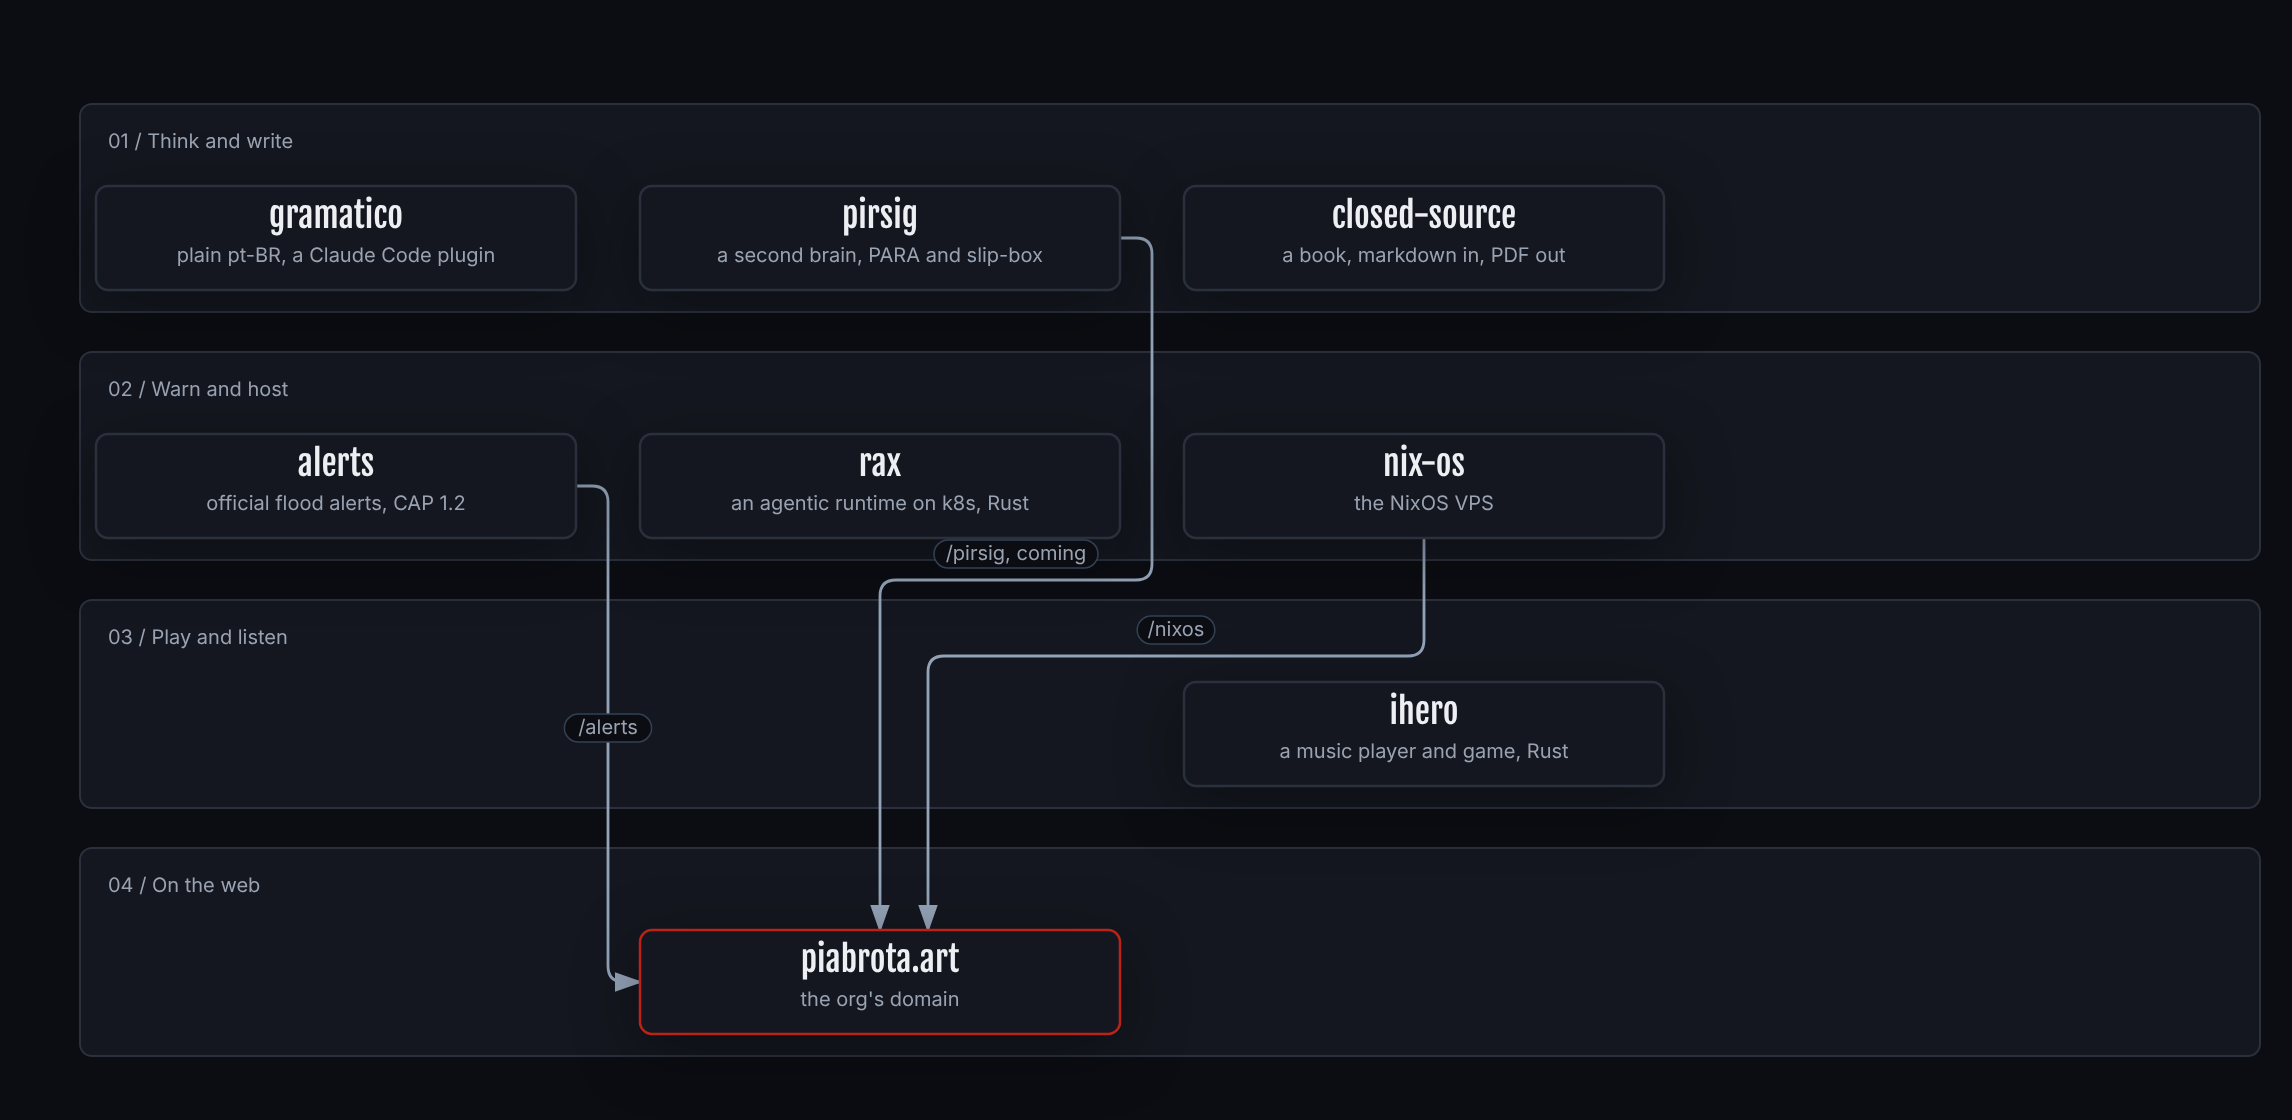
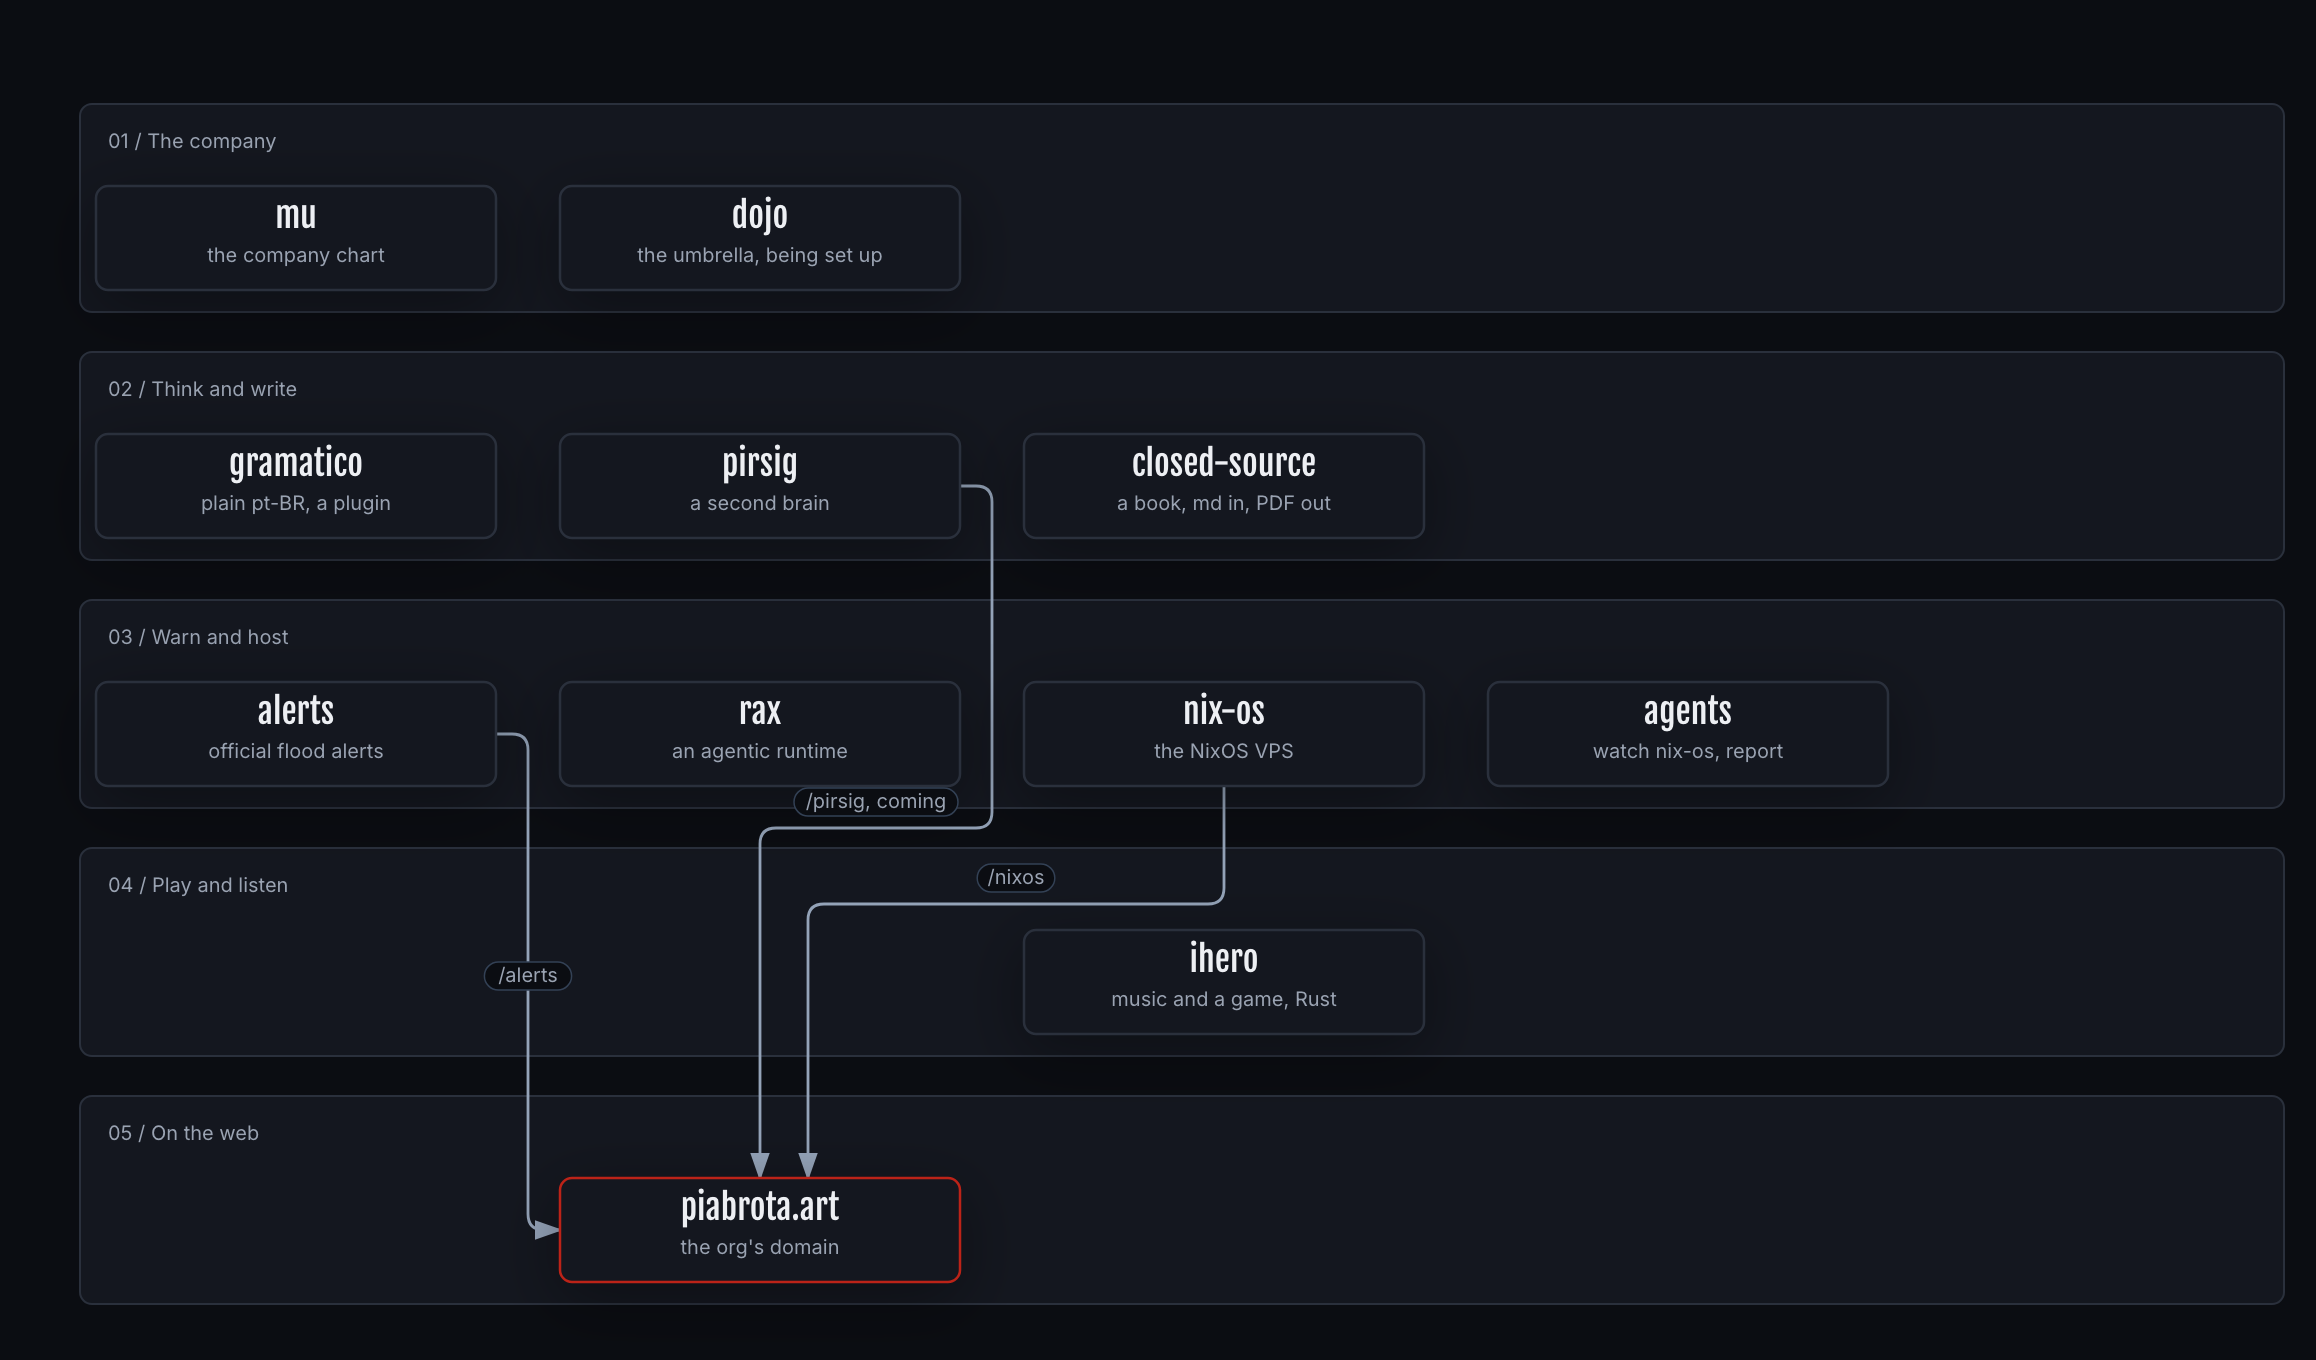
Profile: add mu, dojo and agents, link ihero, redraw the fabric
The org has ten open projects now. ihero has a repository, and the fabric has a lane for the company.

diff --git a/profile/README.md b/profile/README.md
@@ -32,20 +32,23 @@
 | <img alt="A Fibonacci wave and a bell, in one line" src="https://raw.githubusercontent.com/piabrota/alerts/10d996d47c4a8c6bc4076f826bc274da3f8a5561/docs/drawings/wave.svg" width="64"/> | [**alerts**](https://github.com/piabrota/alerts) | A generic alert platform. It collects alerts from official sources only, and delivers them to Discord and an Atom feed with CAP 1.2. The first hazard is floods in the south of Brazil. | none yet (piabrota.art/alerts, coming) | MPL-2.0 |
 | <img alt="代理, dairi, an agent, brushed in sixteen strokes among stars, inside an orbit" src="https://raw.githubusercontent.com/piabrota/rax/a1c99e147db88902db52e92aa86fe47d06e6e8c7/docs/drawings/cosmos.svg" width="64"/> | [**rax**](https://github.com/piabrota/rax) | Rustic Agentic Runtime: a pure-Rust port of AX, the declarative orchestrator for agentic tasks on Agent Substrate. It keeps AX's API, so a manifest written for AX works here. | none | MPL-2.0, parts from AX Apache-2.0 |
 | <img alt="An open letter c with a dot, on a dark square" src="https://raw.githubusercontent.com/h0ffmann/closed-source/6b3aae557f69ab89ec747364311978928dd0ca71/site/static/icons/favicon.svg" width="64"/> | [**closed-source**](https://github.com/h0ffmann/closed-source) | *The god that failed*: a book on why closed source failed as a protection, for science first. Markdown in, PDF out, every reference checked, every release citable. | [h0ffmann.github.io/closed-source](https://h0ffmann.github.io/closed-source/) | text CC BY 4.0, code AGPL-3.0 |
-| 🎶 | **ihero** | A FOSS music player and game, in Rust. Coming. | none yet | MPL-2.0 |
+| 🎶 | [**ihero**](https://github.com/piabrota/ihero) | A FOSS music player and game, in Rust. Coming: the repository holds only its licence. | none yet | MPL-2.0 |
 | <img alt="无, mu, brushed in four strokes from Desmos equations" src="https://raw.githubusercontent.com/piabrota/nix-os/191a284035bef85ea828ff75cc729b4f045b10f1/docs/drawings/mu.svg" width="64"/> | [**nix-os**](https://github.com/piabrota/nix-os) | The NixOS configuration of the small VPS that serves piabrota.art/nixos. Every change is judged by what it adds to the closure and to memory. | [piabrota.art/nixos](https://piabrota.art/nixos) | MPL-2.0 |
+| 🤖 | [**agents**](https://github.com/piabrota/agents) | Small agents that watch nix-os and its VPS, and report on GitHub as piabrota-ops. They open pull requests and never merge. | none | MPL-2.0 |
+| <img alt="む, mu, brushed in its three strokes, in pure Nix" src="https://raw.githubusercontent.com/piabrota/mu/960984b928062b5cf043001e072322df51f106fa/docs/drawings/mu.svg" width="64"/> | [**mu**](https://github.com/piabrota/mu) | The company chart: the dogma, the standards, the journal and the index of the org's repositories. | none | CC BY 4.0, AGPL-3.0, MPL-2.0 |
+| 道場 | [**dojo**](https://github.com/piabrota/dojo) | The umbrella of the piabrota projects. Being set up. | none yet | MPL-2.0 |
 
-The drawings load from each project's repository at a pinned commit; none is copied here. ihero
-has no repository yet, so it has no drawing.
+The drawings load from each project's repository at a pinned commit; none is copied here. ihero,
+agents and dojo have no drawing yet.
 
 ## How it fits
 
-![The piabrota fabric in four lanes: pirsig, gramatico and closed-source think and write; alerts, rax and nix-os warn and host; ihero plays; alerts serves piabrota.art/alerts, nix-os serves piabrota.art/nixos, and pirsig comes to piabrota.art/pirsig.](img/fabric.png)
+![The piabrota fabric in five lanes: mu and dojo hold the company; pirsig, gramatico and closed-source think and write; alerts, rax, nix-os and agents warn and host; ihero plays; alerts serves piabrota.art/alerts, nix-os serves piabrota.art/nixos, and pirsig comes to piabrota.art/pirsig.](img/fabric.png)
 
 <details open>
 <summary>How to read this figure</summary>
 
-**Takeaway.** Seven open projects, each on its own; three of them meet the web at piabrota.art.
+**Takeaway.** Ten open projects, each on its own; three of them meet the web at piabrota.art.
 
 **How to read.** One lane per kind of work. An arrow means "is served at", and its label is the
 path; "coming" means planned, not live. The red border marks the domain.
